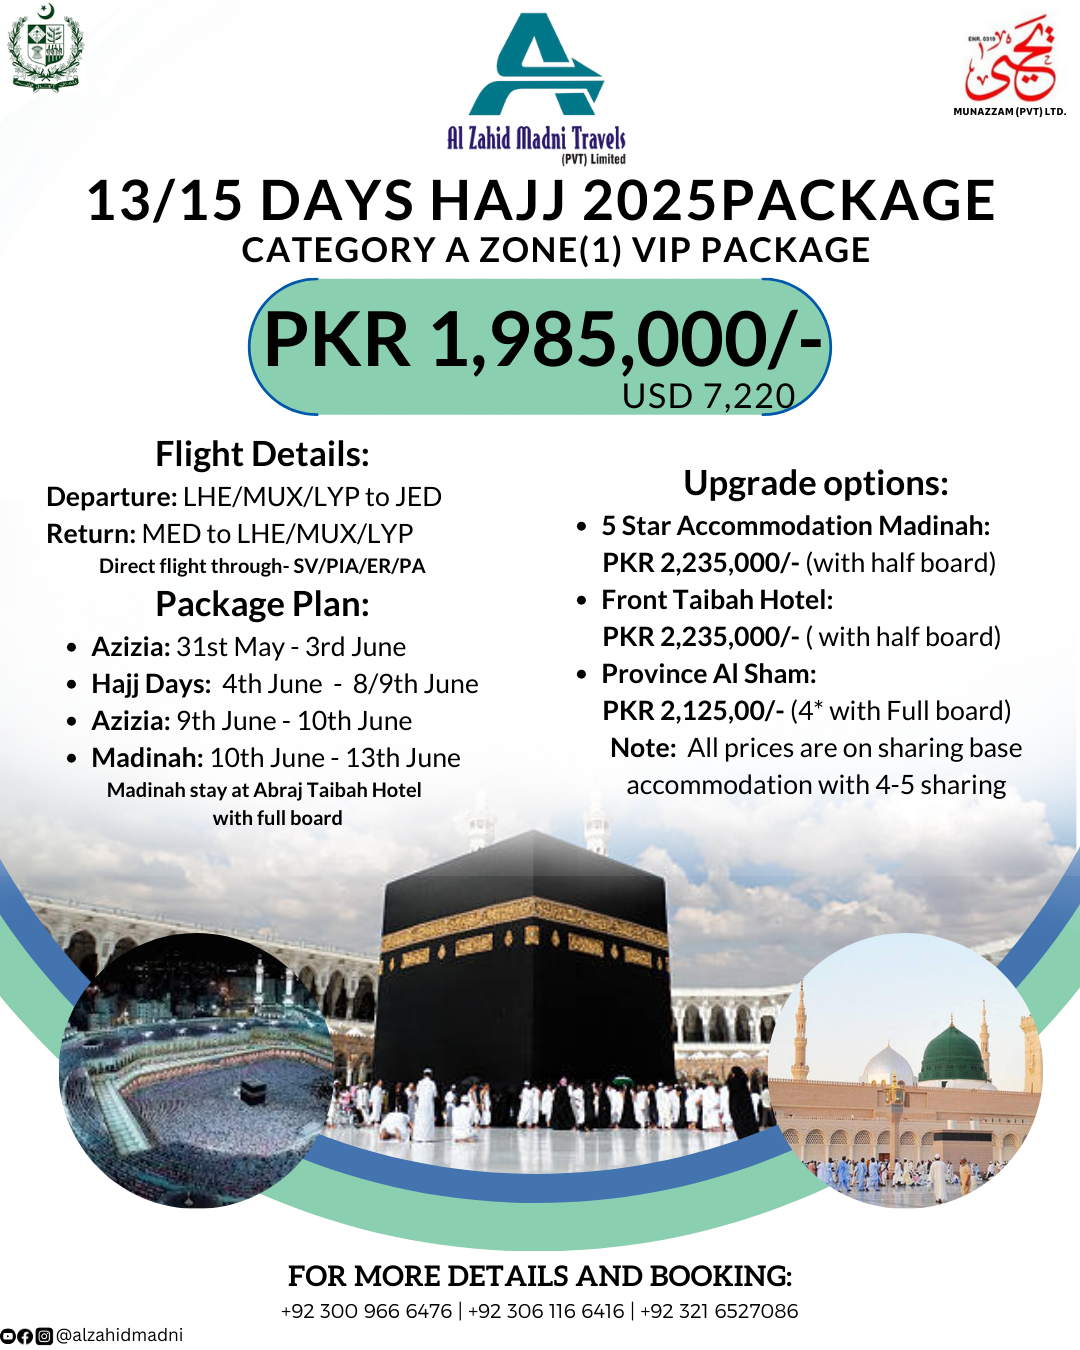
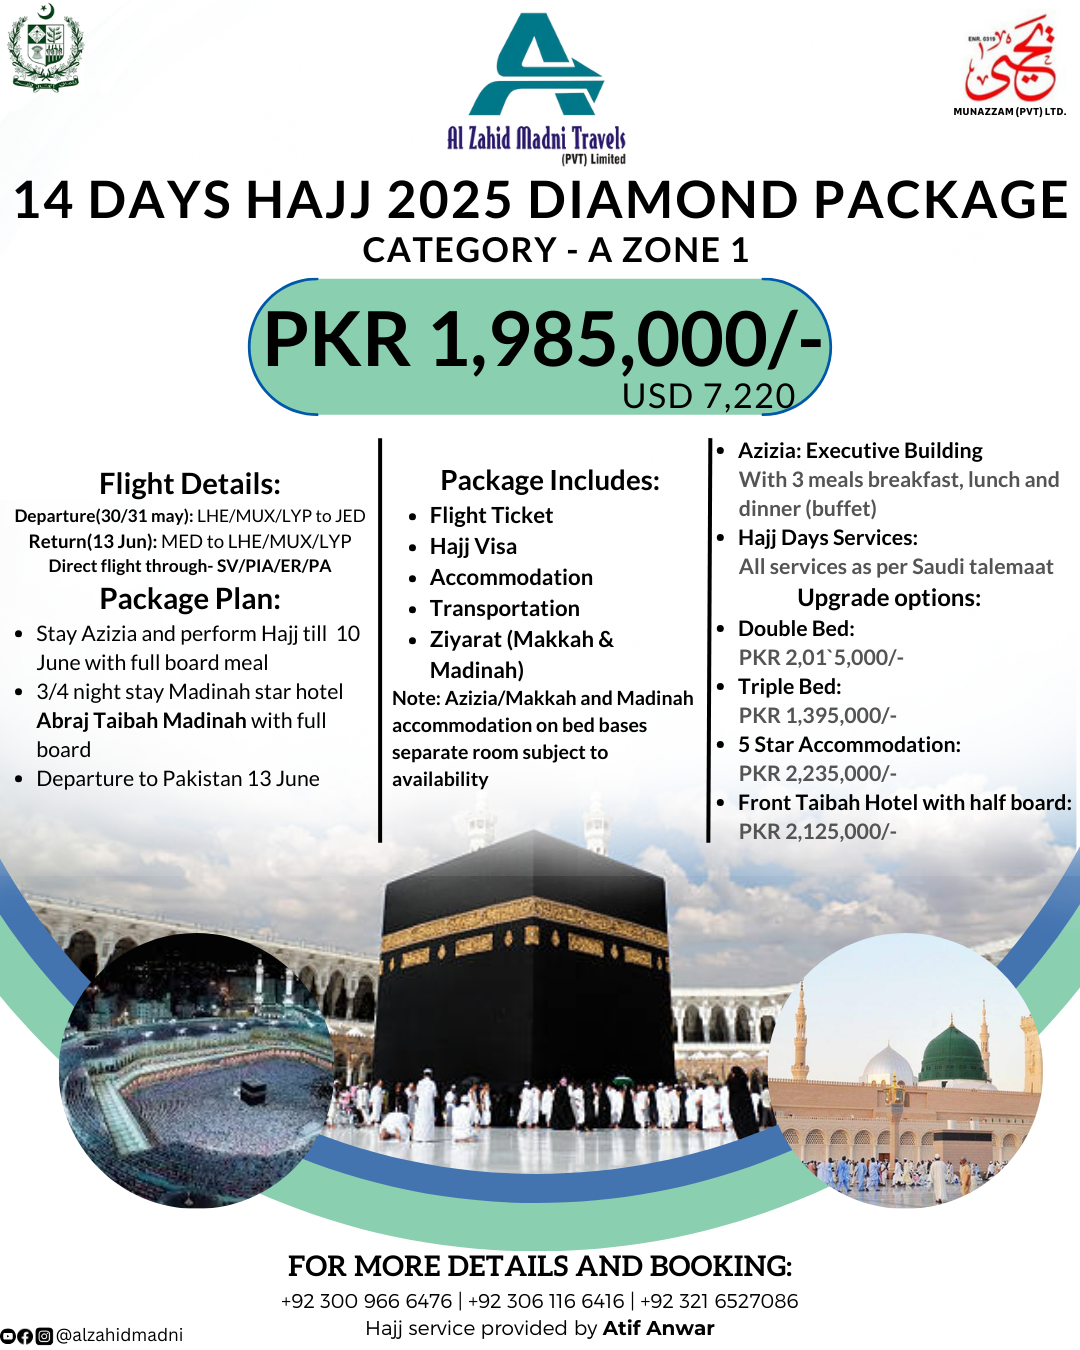
real package pictures

Changed region(s): [[0.0, 0.3111, 1.0, 0.6222], [0.0, 0.1244, 1.0, 0.2178], [0.2444, 0.9333, 0.7333, 0.9956]]

diff --git a/hajj-2025.html b/hajj-2025.html
@@ -109,26 +109,26 @@
         <!-- Category A Package -->
         <div class="package">
             <img src="pics/a-short.png" alt="Category A Package">
-            <h2>14 Days Category A Package</h2>
+            <h2>14 Days Diamond Package</h2>
             <a href="https://forms.gle/ih1qsdPuxEWo9YnS6" class="book-now">Book Now</a>
         </div>
 
         <!-- Category B Package -->
         <div class="package">
-            <img src="pics/gold.png" alt="Category B Package">
-            <h2>20 Days Category A Package</h2>
+            <img src="pics/b-short.png" alt="Category B Package">
+            <h2>14 Days Gold Package</h2>
             <a href="https://www.instagram.com/alzahidmadni/profilecard/?igsh=MXB2dHRxOGd6NmZsNA==" class="book-now">Book Now</a>
         </div>
 
         <!-- Category D Package -->
         <div class="package">
-            <img src="pics/economy.png" alt="Category D Package">
-            <h2>Category D Package</h2>
+            <img src="pics/d-short16.png" alt="Category D Package">
+            <h2>16 days Standard Package</h2>
             <a href="https://www.instagram.com/alzahidmadni/profilecard/?igsh=MXB2dHRxOGd6NmZsNA==" class="book-now">Book Now</a>
         </div>
         <div class="package">
-            <img src="pics/economy.png" alt="Category D Package">
-            <h2>Category D Package</h2>
+            <img src="pics/d-short.png" alt="Category D Package">
+            <h2>14 Days Standard Package</h2>
             <a href="https://www.instagram.com/alzahidmadni/profilecard/?igsh=MXB2dHRxOGd6NmZsNA==" class="book-now">Book Now</a>
         </div>
     </div>
